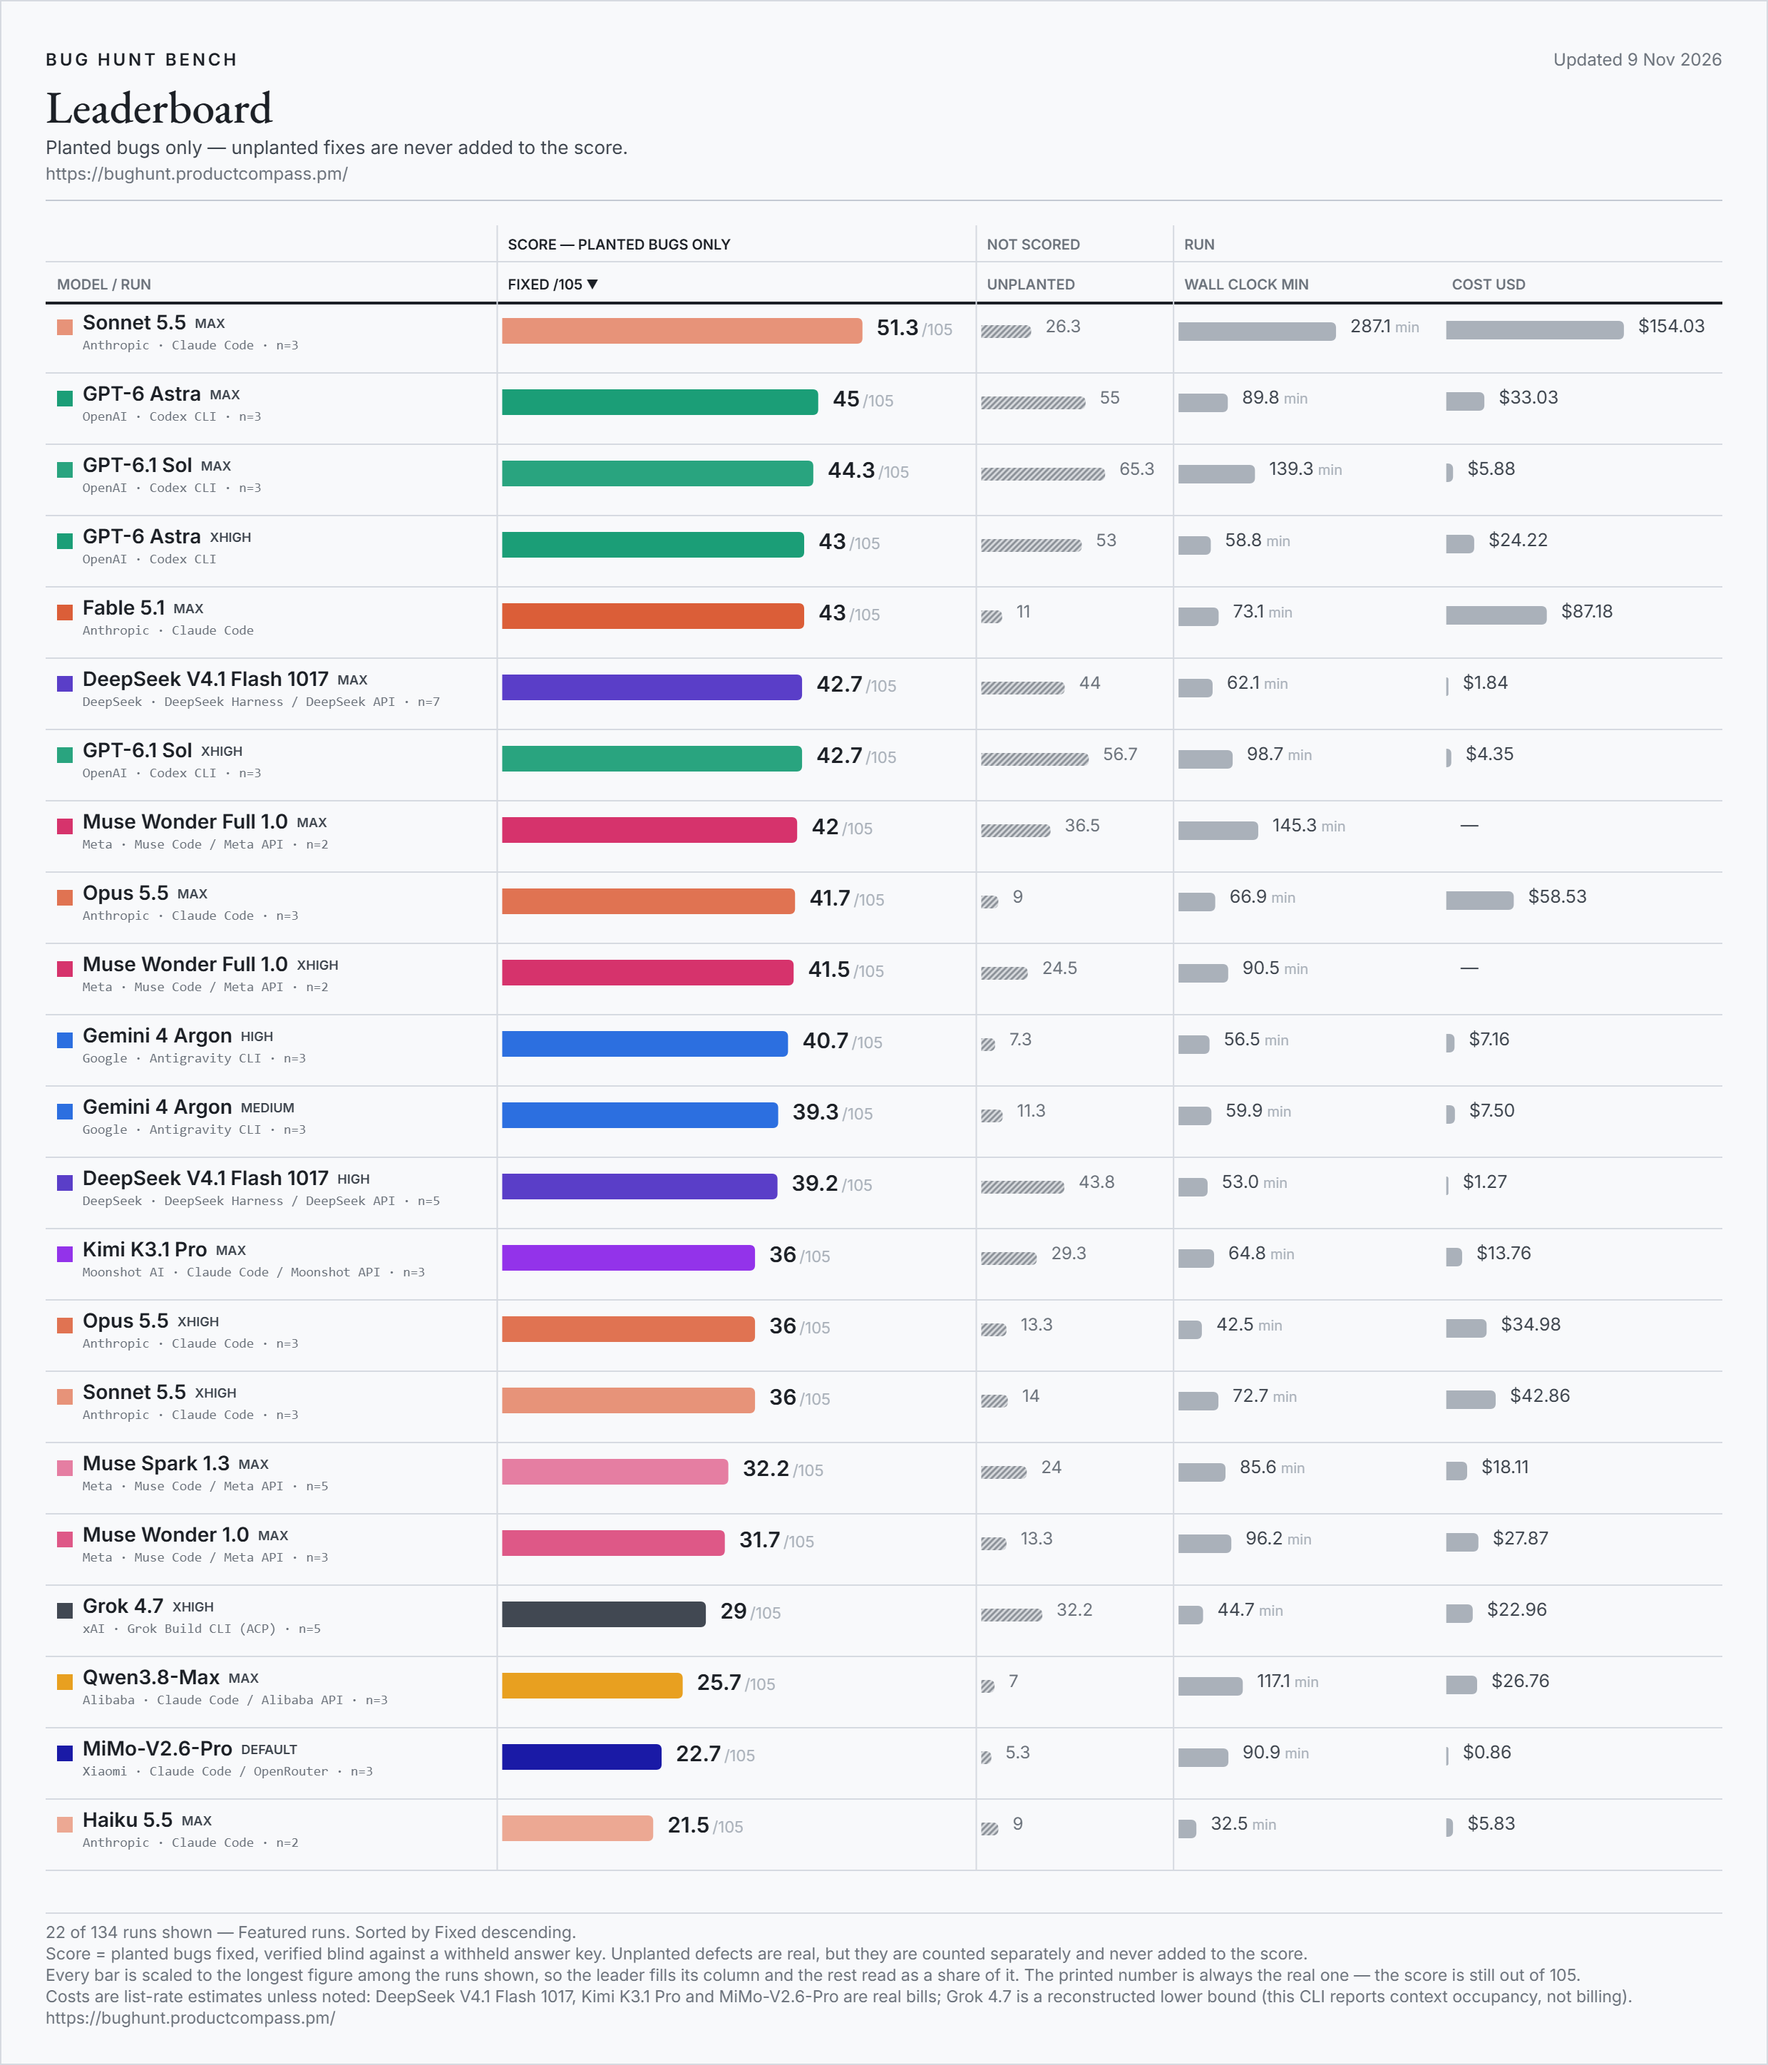
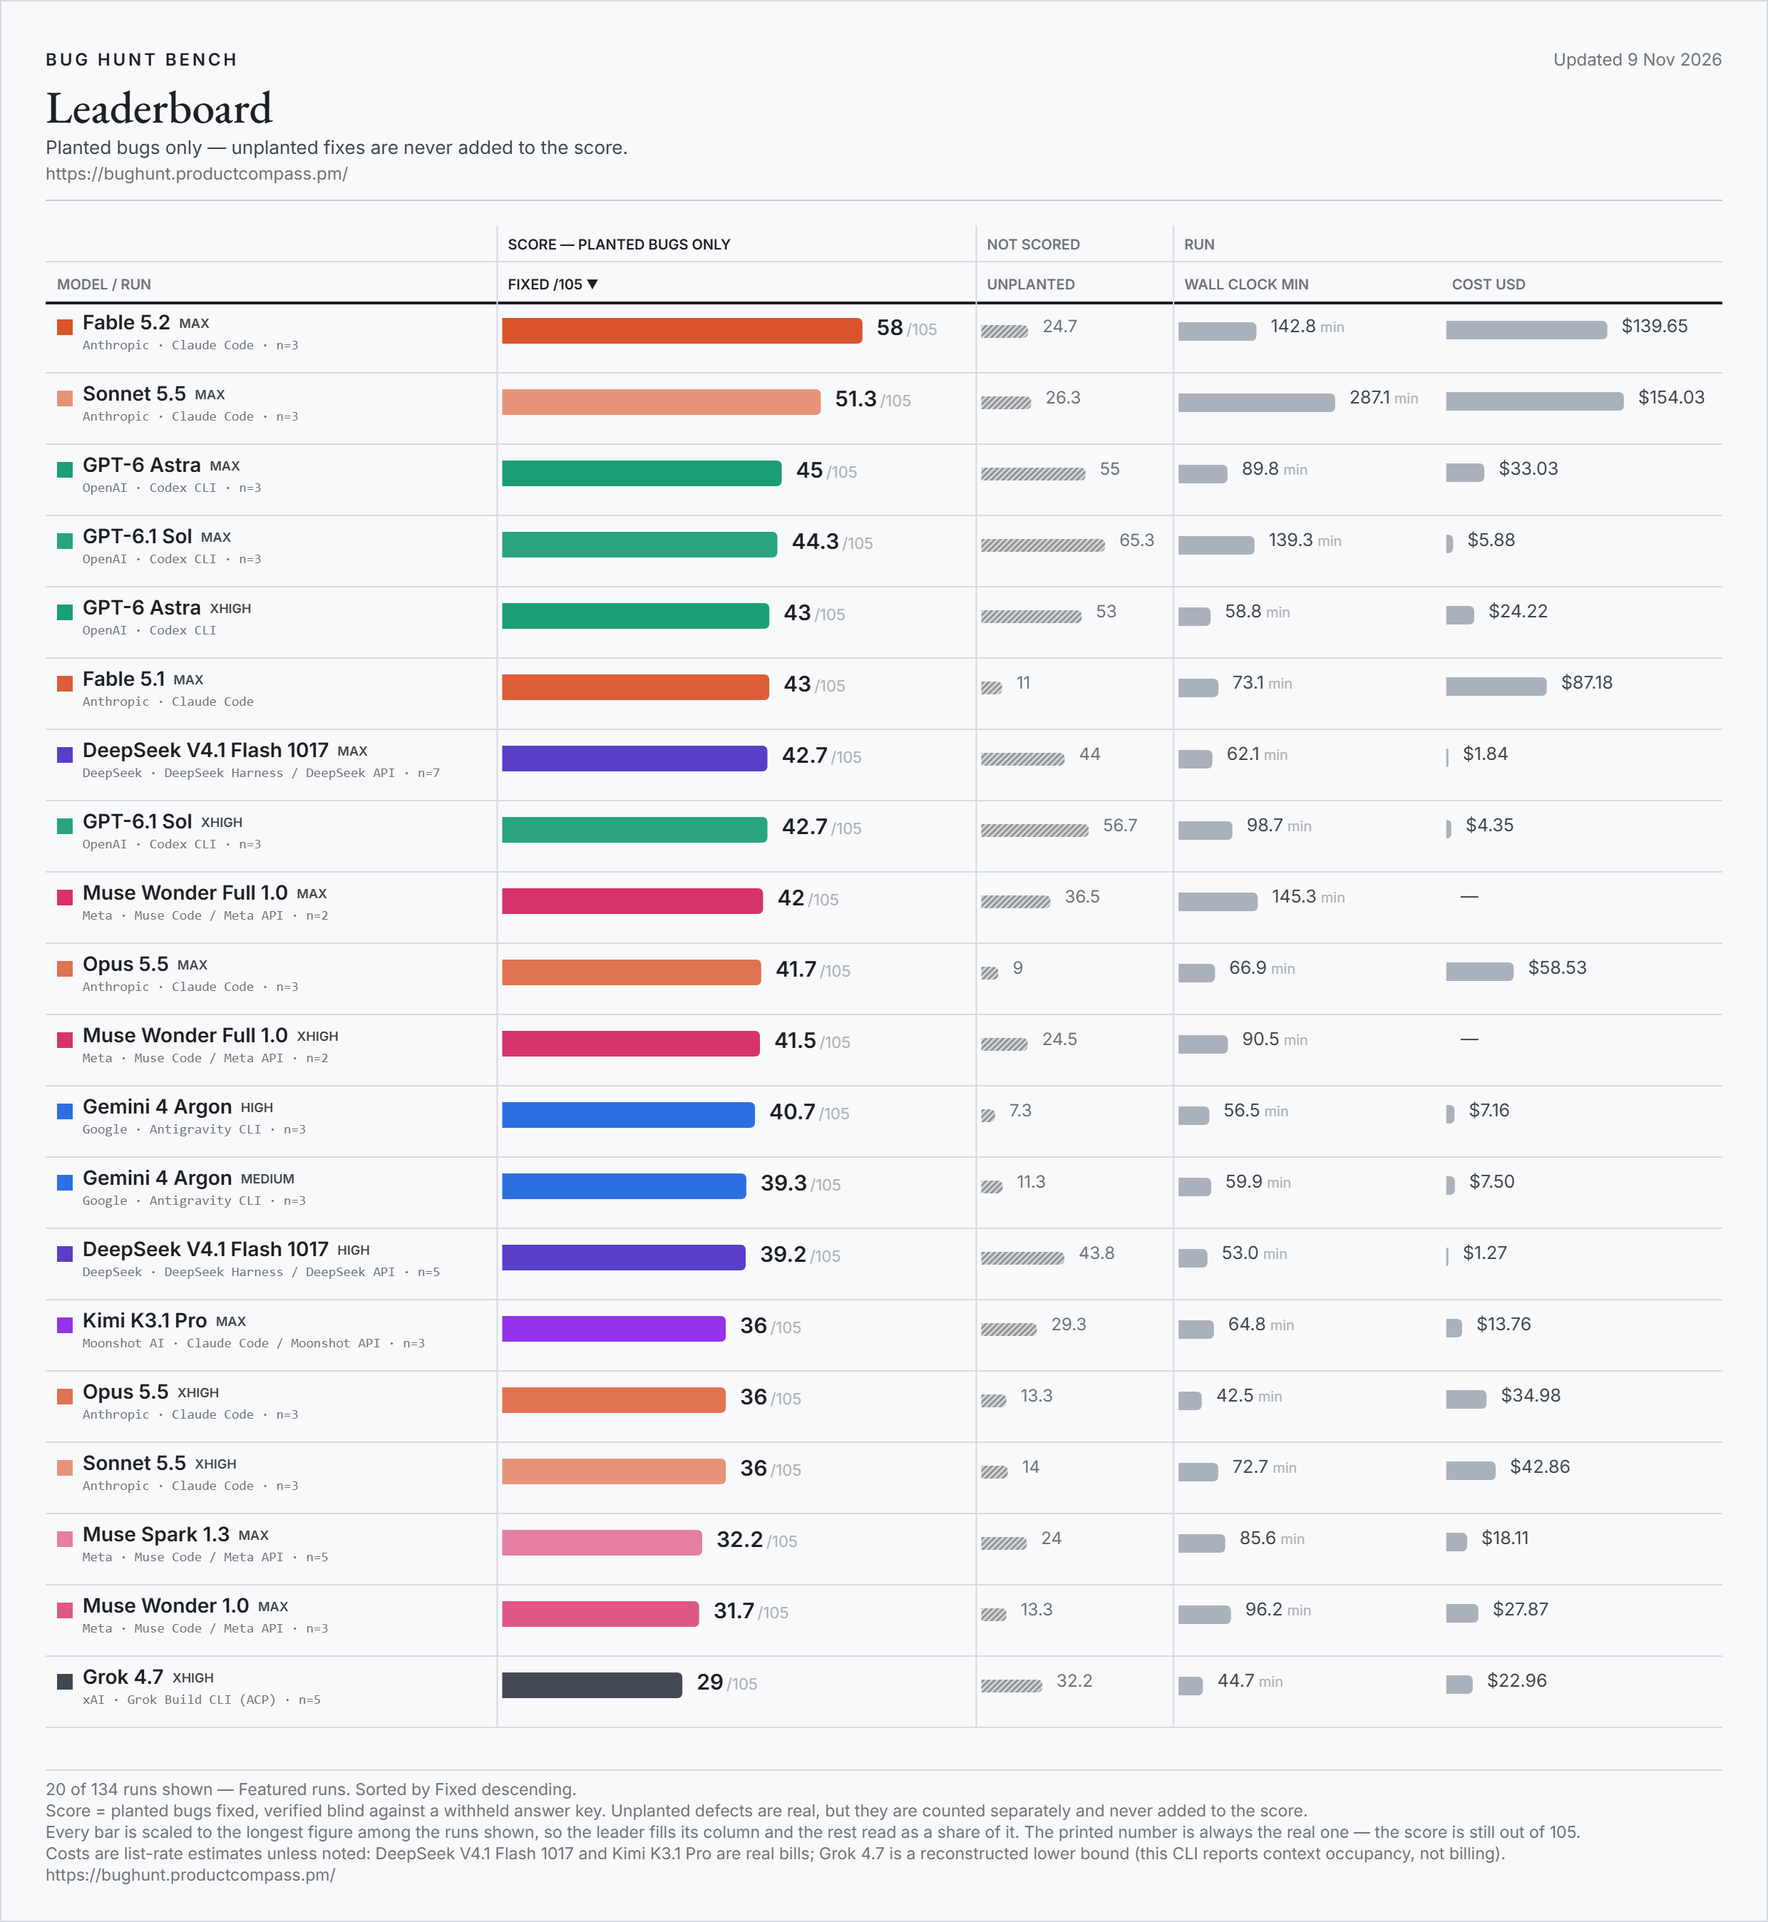
board: feature Fable 5.2 (max effort) - mean of 3; unfeature rows below 29 (Qwen3.8-Max, MiMo-V2.6-Pro, Haiku 5.5 max)

diff --git a/index.html b/index.html
@@ -22,14 +22,14 @@
 <meta property="og:title" content="Bug Hunt Bench — frontier coding models against real planted bugs">
 <meta property="og:description" content="A blind-graded benchmark of frontier coding models on real bugs planted in two production codebases. The score counts planted bugs only; extra fixes are tracked separately and never added.">
 <meta property="og:url" content="https://bughunt.productcompass.pm/">
-<meta property="og:image" content="https://bughunt.productcompass.pm/og-image.png?v=2026-11-09-8e94ee51">
+<meta property="og:image" content="https://bughunt.productcompass.pm/og-image.png?v=2026-11-09-e262adb5">
 <meta property="og:image:width" content="1200">
 <meta property="og:image:height" content="630">
 <meta property="og:image:alt" content="Bug Hunt Bench leaderboard">
 <meta name="twitter:card" content="summary_large_image">
 <meta name="twitter:title" content="Bug Hunt Bench — frontier coding models against real planted bugs">
 <meta name="twitter:description" content="A blind-graded benchmark of frontier coding models on real bugs planted in two production codebases. The score counts planted bugs only.">
-<meta name="twitter:image" content="https://bughunt.productcompass.pm/og-image.png?v=2026-11-09-8e94ee51">
+<meta name="twitter:image" content="https://bughunt.productcompass.pm/og-image.png?v=2026-11-09-e262adb5">
 <meta name="twitter:creator" content="@PawelHuryn">
 
 <link rel="icon" href="/assets/favicon.svg" type="image/svg+xml">

diff --git a/method.html b/method.html
@@ -20,14 +20,14 @@
 <meta property="og:title" content="Method, caveats and definitions — Bug Hunt Bench">
 <meta property="og:description" content="How Bug Hunt Bench is run and graded, what the board cannot tell you, and what every column on it means.">
 <meta property="og:url" content="https://bughunt.productcompass.pm/method">
-<meta property="og:image" content="https://bughunt.productcompass.pm/og-image.png?v=2026-11-09-8e94ee51">
+<meta property="og:image" content="https://bughunt.productcompass.pm/og-image.png?v=2026-11-09-e262adb5">
 <meta property="og:image:width" content="1200">
 <meta property="og:image:height" content="630">
 <meta property="og:image:alt" content="Bug Hunt Bench leaderboard">
 <meta name="twitter:card" content="summary_large_image">
 <meta name="twitter:title" content="Method, caveats and definitions — Bug Hunt Bench">
 <meta name="twitter:description" content="How Bug Hunt Bench is run and graded, what the board cannot tell you, and what every column on it means.">
-<meta name="twitter:image" content="https://bughunt.productcompass.pm/og-image.png?v=2026-11-09-8e94ee51">
+<meta name="twitter:image" content="https://bughunt.productcompass.pm/og-image.png?v=2026-11-09-e262adb5">
 <meta name="twitter:creator" content="@PawelHuryn">
 
 <link rel="icon" href="/assets/favicon.svg" type="image/svg+xml">

diff --git a/results/waves.md b/results/waves.md
@@ -4441,4 +4441,4 @@ What it shows. Fable 5.2 at max averages 58 of 105, 15 above Fable 5.1 at max (4
 
 Two things to read it with. The judge: these runs were scored by Grok (grok-4.7), blind; the comparison rows by gpt-5.5, which the ChatGPT account no longer serves. The board's judge calibration (`judge-calibration.md`) had GPT-5.5 and Grok 4.5 grade the same arm to the same fixed count, 17 and 17; it has not been repeated with grok-4.7. The regime: every leg compacted its context once on repo 2; on repo 1 only run 2 did. Same threshold on all six legs (the CLI default) - run 2 ran longer and crossed it - so the three are published as one mean, with that on the row.
 
-Cost is a list estimate at Anthropic's Fable 5.2 rates ($8 input, $16 1h cache write, $0.20 cache read, $40 output per million), checked to the cent against the CLI's own cost figure on a wire probe. The per-turn output cap on the wire is 128,000; Fable 5.1's row ran with less. Not featured.
+Cost is a list estimate at Anthropic's Fable 5.2 rates ($8 input, $16 1h cache write, $0.20 cache read, $40 output per million), checked to the cent against the CLI's own cost figure on a wire probe. The per-turn output cap on the wire is 128,000; Fable 5.1's row ran with less. Featured (from Nov 10).

diff --git a/README.md b/README.md
@@ -7,7 +7,7 @@
 If the numbers save you a benchmark run of your own, **star this repo** — that is what keeps the bench findable, and new models are added as they ship.
 
 <!-- leaderboard:start -->
-![Bug Hunt Bench leaderboard, the featured runs, updated Nov 9, 2026](assets/leaderboard.png?v=2026-11-09-8751cf73)
+![Bug Hunt Bench leaderboard, the featured runs, updated Nov 9, 2026](assets/leaderboard.png?v=2026-11-09-a7307b07)
 
 **Updated Nov 9, 2026 · 208 rows from 311 scored runs · 50 models · 24 of 105 bugs have never been fixed by any model.**
 
